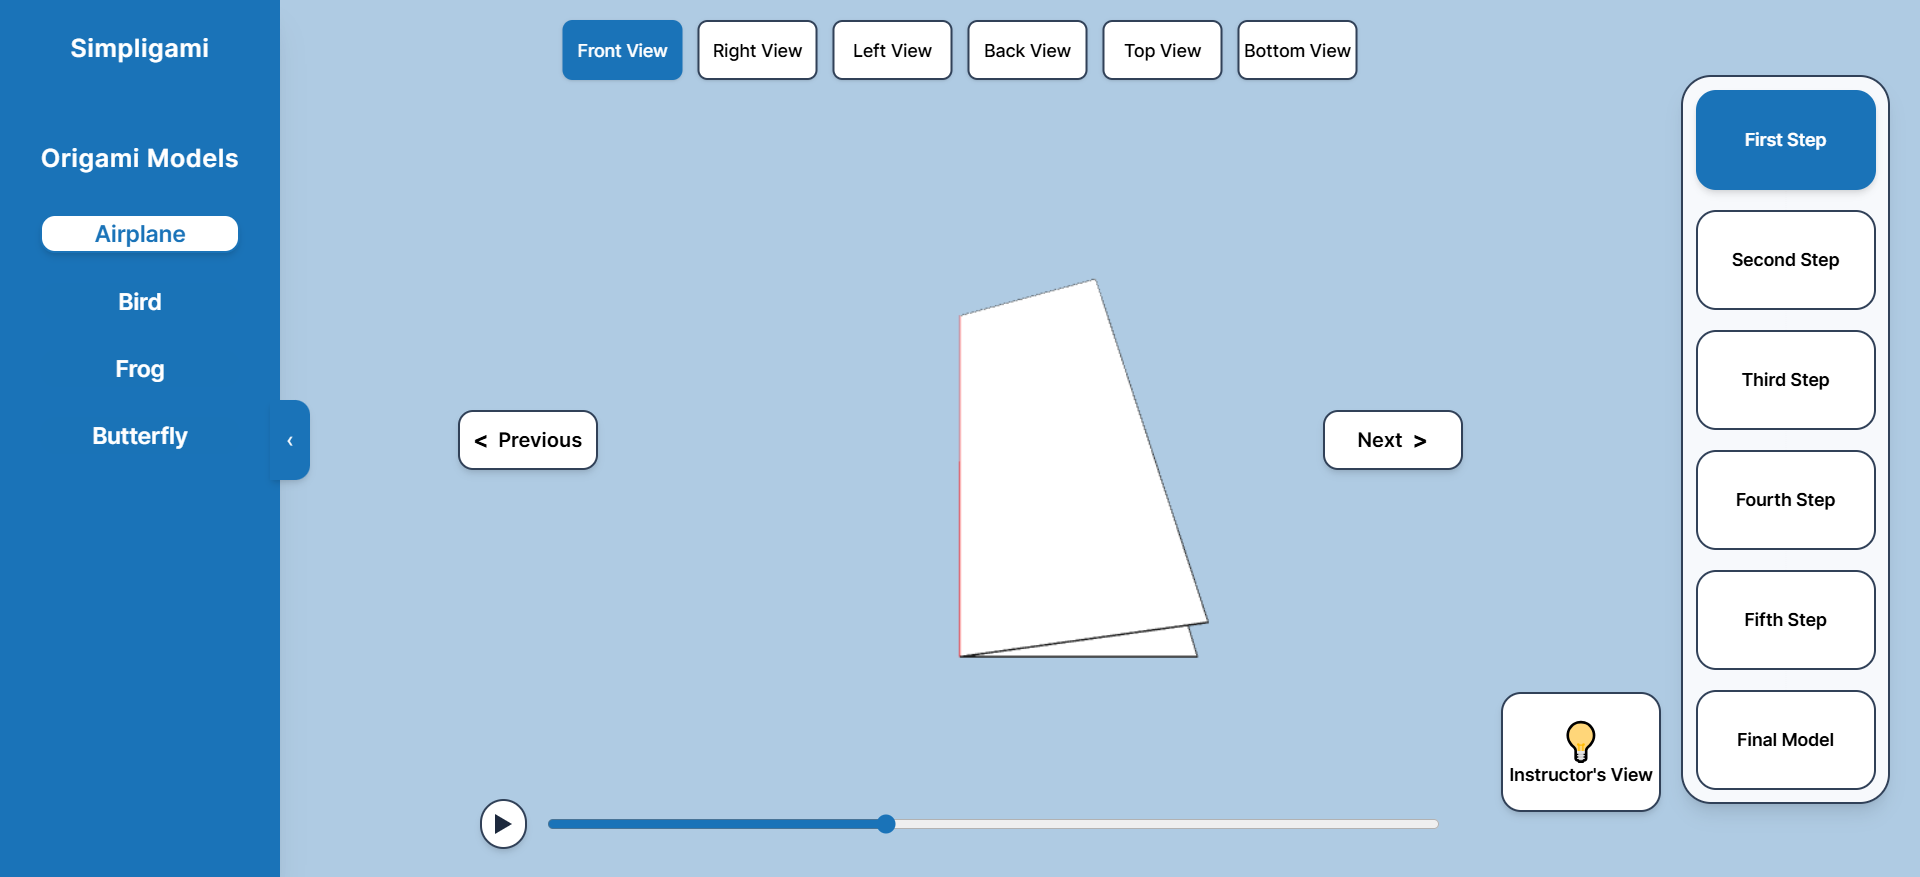
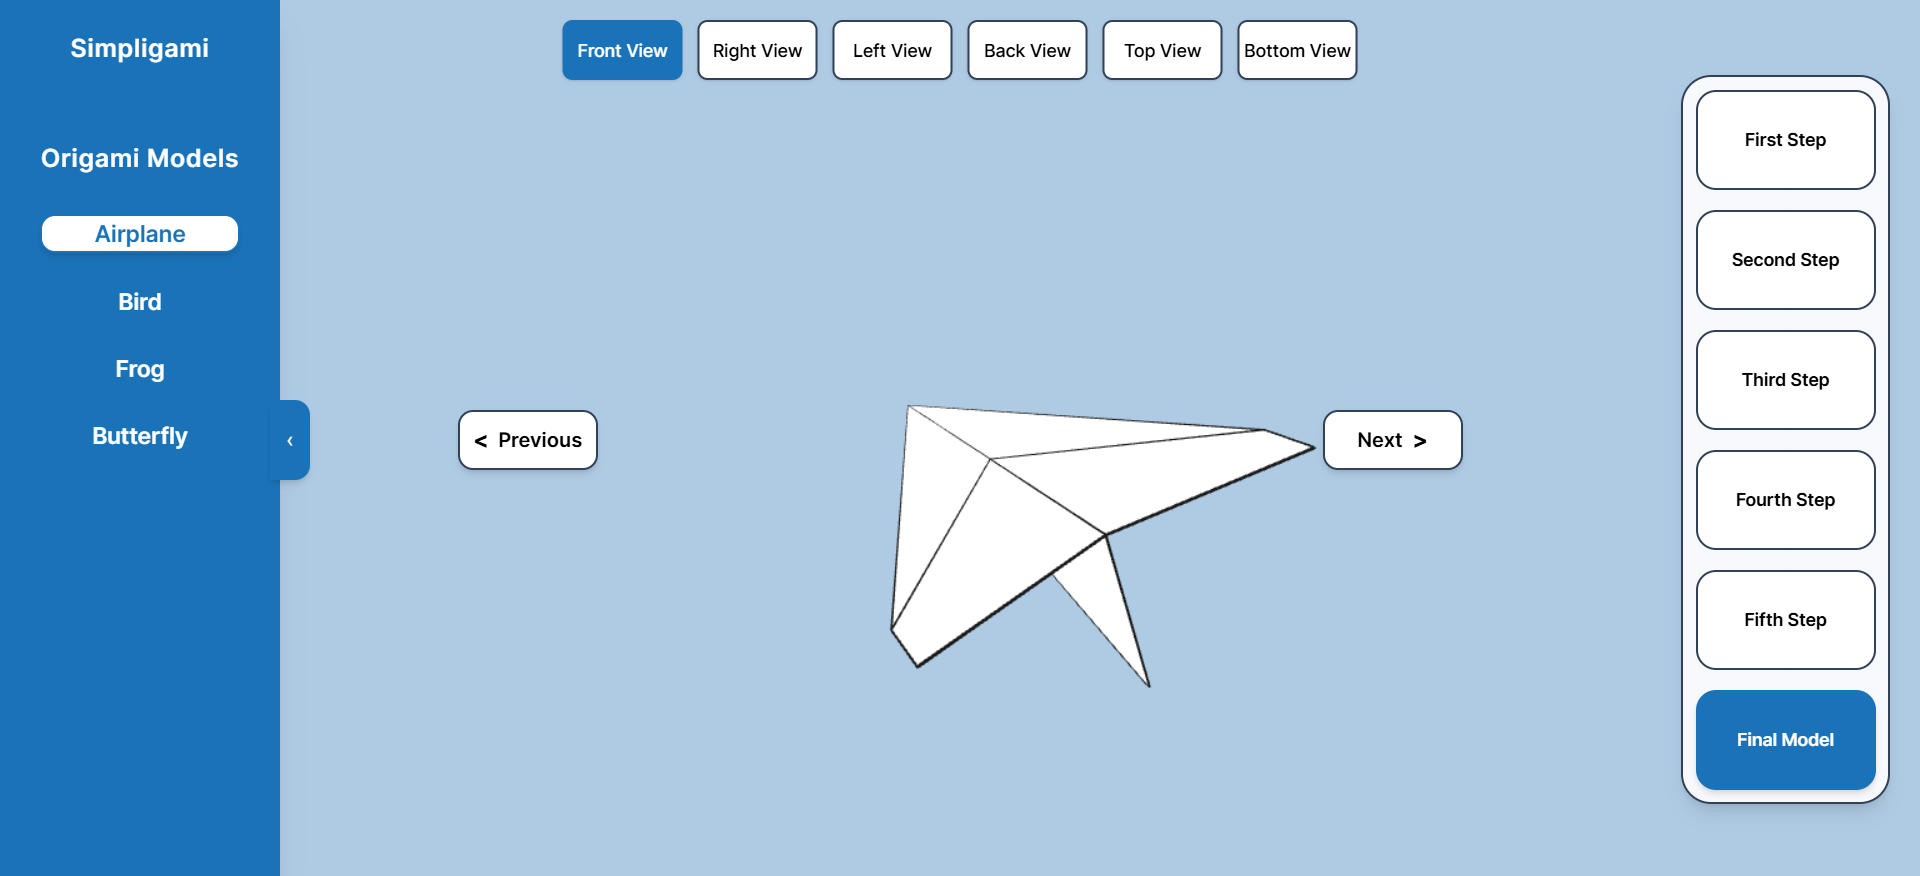
Projects

diff --git a/src/home/Projects.tsx b/src/home/Projects.tsx
@@ -1,21 +1,50 @@
 import SectionHeader from "../components/SectionHeader";
 
-import kevin_rush_portfolio from "/work/kevin_rush_portfolio.png";
+type ProjectCardProps = { title: string; description: string; image: string; className?: string };
 
-function ProjectCard({ title, description, image }: { title: string; description: string; image: string }) {
+const ProjectCard = ({ title, description, image, className = "" }: ProjectCardProps) => {
   return (
-    <div className="w-full flex flex-col lg:flex-row items-start gap-4 lg:gap-8">
-      <figure className="w-full lg:w-[300px] rounded-2xl overflow-hidden">
-        <img src={image} alt={title} className="w-full h-full object-cover rounded-4xl" />
-      </figure>
+    <div
+      className={`group relative overflow-hidden rounded-4xl shadow-md 
+        bg-cover bg-center 
+        bg-contain bg-no-repeat
+        ${className}`}
+      style={{ backgroundImage: `url(${image})` }}
+    >
+      <div
+        className="
+          absolute inset-0
+          bg-sky-700/70
+          opacity-0
+          group-hover:opacity-100
+          transition-opacity duration-300
+        "
+      />
 
-      <div className="flex-1 min-w-0 text-[clamp(1rem,2.8vw+0.5rem,1.25rem)]">
-        <div className="font-bold text-[var(--text)] text-[clamp(1.25rem,3vw+0.5rem,1.75rem)] mb-2">{title}</div>
-        <div className="text-[var(--text-muted)]">{description}</div>
+      <div
+        className="
+          absolute inset-0
+          flex flex-col justify-end
+          p-6
+          bg-white/5
+          backdrop-blur-xl
+          border border-white/10
+          opacity-0
+          group-hover:opacity-100
+          transition-all duration-300
+        "
+      >
+        <h3 className="text-white text-2xl font-semibold mb-2">{title}</h3>
+
+        <p className="text-white/90 text-sm max-w-md">{description}</p>
+
+        <div className="rounded-lg bg-white flex p-2 mt-4">
+          <img src="/skills/react.svg" alt="View Project" className="w-4 h-4" />
+        </div>
       </div>
     </div>
   );
-}
+};
 
 export default function Projects() {
   return (
@@ -25,11 +54,61 @@ export default function Projects() {
     >
       <SectionHeader title="Websites I’m Proud Of" />
 
-      <div className="flex flex-col lg:flex-row items-center justify-center gap-12 ">
+      <div className="grid grid-cols-12 auto-rows-[180px] gap-5 w-full mt-5">
         <ProjectCard
           title="Kevin Rush Portfolio"
-          description="A modern portfolio website showcasing Kevin Rush's work and skills."
-          image={kevin_rush_portfolio}
+          description="A modern portfolio experience built with React and Tailwind."
+          image="/work/SAR.png"
+          className="col-span-12 md:col-span-8 row-span-2"
+        />
+
+        <ProjectCard
+          title="Analytics Dashboard"
+          description="Interactive data visualizations with D3.js."
+          image="/work/ask_your_crush_out_online.png"
+          className="col-span-12 md:col-span-4 row-span-2"
+        />
+
+        <ProjectCard
+          title="Flavor Charter App and Dashboard"
+          description="Reusable component architecture and design system."
+          image="/work/flavor_charter.png"
+          className="col-span-12 md:col-span-3 row-span-2"
+        />
+
+        <ProjectCard
+          title="Finance Platform"
+          description="Responsive financial management dashboard."
+          image="/work/simpligami.png"
+          className="col-span-12 md:col-span-6 row-span-2"
+        />
+
+        <ProjectCard
+          title="3D Experience"
+          description="Interactive WebGL and motion-based experiences."
+          image="/work/rhythpic2.png"
+          className="col-span-12 md:col-span-3 row-span-2"
+        />
+
+        <ProjectCard
+          title="Finance Platform"
+          description="Responsive financial management dashboard."
+          image="/work/kevin_rush_portfolio.jpg"
+          className="col-span-12 md:col-span-3 row-span-2"
+        />
+
+        <ProjectCard
+          title="Forever"
+          description="Interactive WebGL and motion-based experiences."
+          image="/work/forever.png"
+          className="col-span-12 md:col-span-6 row-span-2"
+        />
+
+        <ProjectCard
+          title="John Doe Portfolio"
+          description="Responsive financial management dashboard."
+          image="/work/john_doe_portfolio.png"
+          className="col-span-12 md:col-span-3 row-span-2"
         />
       </div>
     </section>

diff --git a/src/components/Navigation.tsx b/src/components/Navigation.tsx
@@ -86,7 +86,7 @@ export default function Navigation() {
         {/* Hamburger */}
         <button className="lg:hidden relative z-100 w-6 h-6" onClick={() => setOpen(!open)}>
           <span
-            className={`absolute left-0 w-6 h-0.5 bg-[var(--text)] transition-all duration-300 top-1/2 -translate-y-1/2 ${open ? "rotate-45" : "-translate-y-2"}`}
+            className={`absolute left-0 w-6 h-0.5 bg-[var(--text)] transition-all duration-300 top-1/2 -translate-y-1/2 ${open ? "rotate-45" : "-translate-y-2.5"}`}
           />
 
           <span
@@ -132,13 +132,13 @@ export default function Navigation() {
           <li className="min-w-0">
             <a
               href="mailto:[email redacted]"
-              className="inline-block origin-center text-[var(--text-muted)] hover:text-[var(--primary)] text-[clamp(0.875rem,2.8vw+0.4rem,1rem)] transition-all duration-300 ease-in-out hover:text-[var(--primary)] hover:scale-105 transition-transform duration-300 font-semibold"
+              className="inline-block origin-center text-[var(--text)] hover:text-[var(--primary)] text-[clamp(0.875rem,2.8vw+0.4rem,1rem)] transition-all duration-300 ease-in-out hover:text-[var(--primary)] hover:scale-105 transition-transform duration-300 font-semibold"
             >
               [email redacted]
             </a>
           </li>
 
-          <li className="w-full h-px flex gap-5 items-center justify-center mt-3">
+          <li className="w-full h-px flex gap-5 items-center justify-center mt-3 text-[var(--text)]">
             <a
               href="https://github.com/HrushikeshJoshi187"
               target="_blank"

diff --git a/src/about/About.tsx b/src/about/About.tsx
@@ -6,8 +6,8 @@ export default function About() {
   return (
     <main className="w-full h-full">
       <AboutMe />
-      <Experience />
       <Education />
+      <Experience />
     </main>
   );
 }